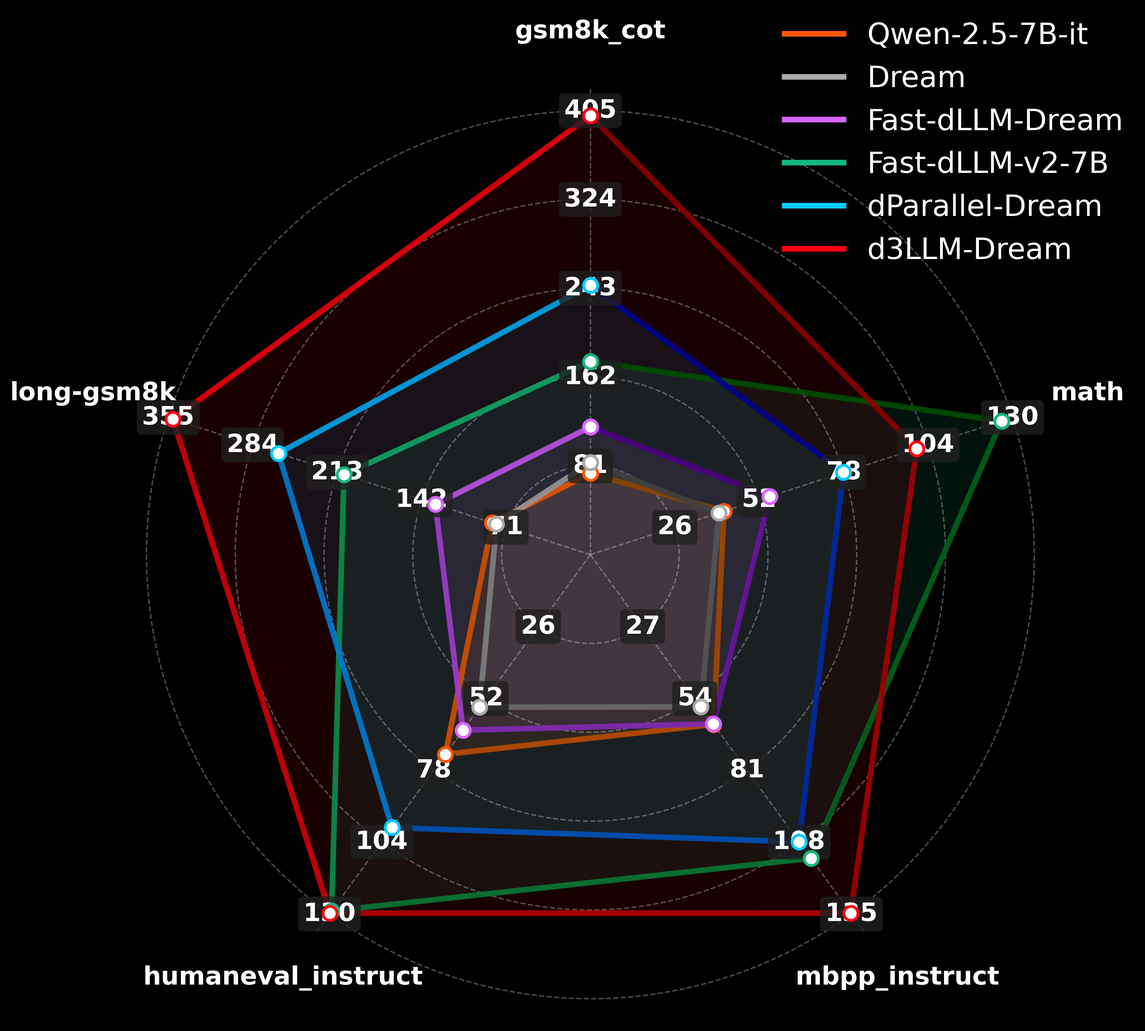
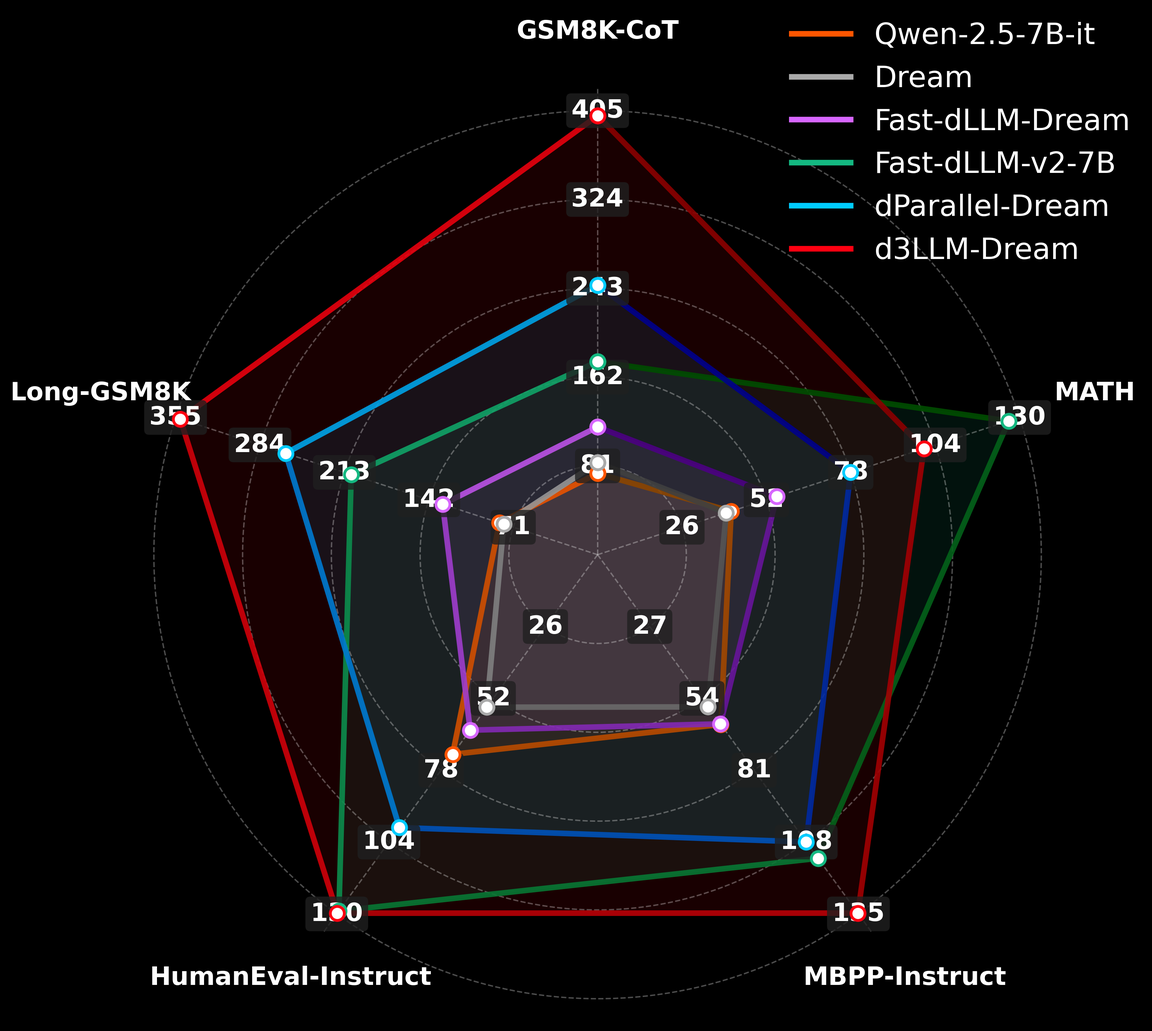
Replace Figures in d3LLM (#43)
* add tags of AR or dLLM

* minor refine

* modify render

* minor update

* Update figs

* remove all imgs

* add new figs

diff --git a/layouts/shortcodes/dllm_leaderboard_previous.html b/layouts/shortcodes/dllm_leaderboard_previous.html
@@ -58,10 +58,6 @@
         background-color: #2a2a2a;
     }
     
-    /* Bold divider line after top 2 methods */
-    .leaderboard-table tbody tr.divider-row {
-        border-bottom: 3px solid #4dcdc4;
-    }
     
     .leaderboard-table td {
         padding: 16px 12px;
@@ -70,18 +66,6 @@
         color: #e0e0e0;
     }
     
-    .leaderboard-table .type-cell {
-        font-weight: 700;
-        font-size: 16px;
-        color: #ffffff;
-        background-color: #2a2a2a;
-        width: 80px;
-        min-width: 80px;
-        max-width: 80px;
-        vertical-align: middle;
-        text-align: center;
-        border-right: 1px solid #333;
-    }
     
     .leaderboard-table .rank-cell {
         font-weight: 700;
@@ -102,6 +86,32 @@
     
     .leaderboard-table .model-cell.top-method {
         font-weight: 700 !important;
+    }
+    
+    .leaderboard-table .badge-cell {
+        width: 45px;
+        min-width: 45px;
+        max-width: 45px;
+        text-align: center;
+        padding: 16px 4px;
+    }
+    
+    .model-badge {
+        display: inline-block;
+        font-size: 10px;
+        font-weight: 500;
+        color: white;
+        padding: 2px 5px;
+        border-radius: 8px;
+        line-height: 1.2;
+    }
+    
+    .model-badge.ar {
+        background-color: #B93413;
+    }
+    
+    .model-badge.dllm {
+        background-color: #193D3A;
     }
     
     .leaderboard-table .metric-cell {
@@ -130,7 +140,7 @@
     
     /* Light gray for other methods */
     .sub-metrics.other-method {
-        color: #aaa;
+        color: #bbb;
     }
     
     .avg-cell {
@@ -218,12 +228,6 @@
             font-size: 16px;
         }
         
-        .leaderboard-table .type-cell {
-            width: 60px;
-            min-width: 60px;
-            max-width: 60px;
-            font-size: 13px;
-        }
         
         .leaderboard-table .rank-cell {
             width: 60px;
@@ -231,9 +235,21 @@
             max-width: 60px;
         }
         
+        .leaderboard-table .badge-cell {
+            width: 38px;
+            min-width: 38px;
+            max-width: 38px;
+            padding: 8px 2px;
+        }
+        
         .leaderboard-table .model-cell {
             min-width: 120px;
             max-width: 140px;
+        }
+        
+        .model-badge {
+            font-size: 7px;
+            padding: 1px 4px;
         }
         
         .leaderboard-table .metric-cell {
@@ -256,8 +272,8 @@
         <table class="leaderboard-table" id="leaderboard-previous">
         <thead>
             <tr>
+                <th>Rank</th>
                 <th>Type</th>
-                <th>Index</th>
                 <th>Model</th>
                 <th>GSM8K-CoT</th>
                 <th>MATH</th>
@@ -279,15 +295,27 @@
         let allData = {};
         
         // Custom order for models - MODIFY THIS ARRAY TO CHANGE THE ORDER
+        const AR_or_dLLM = [
+            'AR', 
+            'dLLM',
+            'dLLM',
+            'dLLM',
+            'dLLM',
+            'dLLM',
+            'dLLM',
+            'AR',
+            'dLLM',
+            'dLLM',
+        ];
         const customOrder = [
             'EAGLE-3 (LLaMA-3.1)',
-            'Qwen-2.5-7B-it',
             'dParallel-LLaDA',
             'dParallel-Dream',
             'Fast-dLLM-v2-7B',
             'Fast-dLLM-LLaDA',
             'D2F',
             'Fast-dLLM-Dream',
+            'Qwen-2.5-7B-it',
             'Dream',
             'LLaDA',
         ];
@@ -485,29 +513,18 @@
             
             data.forEach((model, index) => {
                 const rank = index + 1;
-                const isTopMethod = rank <= 2;
+                const isTopMethod = rank <= 1;
                 const row = document.createElement('tr');
-                
-                // Add divider class after the second row
-                if (rank === 2) {
-                    row.classList.add('divider-row');
-                }
-                
-                // Add Type cell with rowspan for first row of each type
-                let typeCellHTML = '';
-                if (rank === 1) {
-                    // First AR row - spans 2 rows
-                    typeCellHTML = `<td class="type-cell" rowspan="2">AR</td>`;
-                } else if (rank === 3) {
-                    // First dLLM row - spans remaining rows (8 rows for dLLM)
-                    typeCellHTML = `<td class="type-cell" rowspan="8">dLLM</td>`;
-                }
                 
                 const modelCellClass = isTopMethod ? 'model-cell top-method' : 'model-cell';
                 
+                // Get the type (AR or dLLM) for this model
+                const modelType = AR_or_dLLM[index] || 'dLLM';
+                const badgeClass = modelType === 'AR' ? 'ar' : 'dllm';
+                
                 row.innerHTML = `
-                    ${typeCellHTML}
                     <td class="rank-cell">${getRankDisplay(rank)}</td>
+                    <td class="badge-cell"><span class="model-badge ${badgeClass}">${modelType}</span></td>
                     <td class="${modelCellClass}">${model.name}</td>
                     <td class="metric-cell">${formatMetricCell(model.metrics.gsm8k_cot, isTopMethod)}</td>
                     <td class="metric-cell">${formatMetricCell(model.metrics.math, isTopMethod)}</td>

diff --git a/content/blogs/text-diffusion/index.md b/content/blogs/text-diffusion/index.md
@@ -23,11 +23,12 @@ draft = false
 
 {{< justify >}}
 
-**TL;DR:** Diffusion large language models (dLLMs) promise things that autoregressive LLMs cannot:  parallel decoding, error correction, and random-order generation. Over the past year, a wave of papers has pushed this vision, and closed-source systems like Gemini Diffusion and Mercury report impressive throughput numbers. In this blog, we take a step back and ask a simple question: if we look at both speed and accuracy together, are diffusion LLMs actually better decoders than strong autoregressive (AR) models?
+**TL;DR:** Diffusion large language models (dLLMs) promise things that autoregressive LLMs cannot:  parallel decoding, error correction, and random-order generation. Over the past year, a wave of papers has pushed this vision, and closed-source systems like [Gemini Diffusion](https://deepmind.google/models/gemini-diffusion/) and [Mercury](https://arxiv.org/abs/2506.17298) report impressive throughput numbers. In this blog, we take a step back and ask a simple question: if we look at both speed and accuracy together, are diffusion LLMs actually better decoders than strong autoregressive (AR) models?
 
 
 <div style="margin-top: -12px;"></div>
-In our study of open-source systems, we find a consistent accuracy–parallelism trade-off: pushing more tokens per forward pass almost always costs accuracy. We introduce Accuracy Under Parallelism (AUP), a hardware-robust metric that scores this trade-off in one number, and we present d3LLM, a distillation + decoding framework that improves AUP and narrows the gap to strong AR + speculative decoding baselines.
+
+In our study of open-source systems, we find a consistent accuracy–parallelism trade-off: pushing more tokens per forward pass almost always costs accuracy. We introduce Accuracy Under Parallelism (**AUP**), a hardware-robust metric that scores this trade-off in one number, and we present [d3LLM](https://github.com/hao-ai-lab/d3LLM), a distillation + decoding framework that improves AUP and narrows the gap to strong AR + speculative decoding baselines. Our d3LLM achieves up to 5× speedup over the AR baseline (Qwen-2.5-7B-it) on H100 GPU and 3.5× speedup on A100 GPU. Feel free to try 🕹 [our demo](https://d3llm-team.github.io/).
 
 
 
@@ -71,9 +72,9 @@ document.addEventListener('DOMContentLoaded', function() {
 ## Background
 
 Diffusion large language models (dLLMs) have emerged as a promising alternative to autoregressive (AR) LLMs.  Conceptually, they promise things AR models fundamentally struggle with:
-- Parallel decoding: update many tokens per forward pass instead of generating one token at a time.
-- Error correction: revise earlier positions during refinement.
-- Random-order generation: tokens need not be produced strictly left-to-right.
+- **Parallel decoding:** update many tokens per forward pass instead of generating one token at a time.
+- **Error correction:** revise earlier positions during refinement.
+- **Random-order generation:** tokens need not be produced strictly left-to-right.
 
 In the best-case story, dLLMs could be "the future of LLM inference": faster decoding without giving up quality, plus extra capabilities that AR decoding doesn’t naturally offer.
 Recently, several diffusion large language models have been announced, including [Mercury](https://arxiv.org/abs/2506.17298), [Gemini Diffusion](https://deepmind.google/models/gemini-diffusion/), and [Seed Diffusion](https://arxiv.org/abs/2508.02193), which demonstrate impressive efficiency and performance and achieve extremely high throughput - sometimes reported at 1000+ tokens per second in certain settings.
@@ -82,7 +83,7 @@ But the open-source reality today is much more mixed. Many open diffusion models
 
 This raises a simple question that we think has been under-emphasized: If we evaluate both speed and accuracy together, are today’s diffusion LLMs actually better decoders than strong AR models (especially AR + speculative decoding)? In this blog post, we attempt to study that question with evidence, and then use what we learned to: (1) propose a better metric, and (2) build a better diffusion system guided by that metric.
 
-### Key finding: a fundamental accuracy-parallelism trade-off in dLLMs
+### Key Finding: a Fundamental Accuracy-Parallelism Trade-off in dLLMs
 
 To answer this question, we conduct a comprehensive evaluation of SOTA dLLM methods (including [Fast-dLLM](https://arxiv.org/abs/2505.22618), [D2F](https://arxiv.org/abs/2508.09192), [dParallel](https://arxiv.org/abs/2509.26488), and [Fast-dLLM-v2](https://arxiv.org/abs/2509.26328)) on several widely used benchmarks in dLLM literature:
 - Math / reasoning: [GSM8K-CoT (zero-shot CoT)](https://github.com/EleutherAI/lm-evaluation-harness/blob/main/lm_eval/tasks/gsm8k/gsm8k-cot-zeroshot.yaml), [MATH](https://openreview.net/forum?id=IFXTZERXdM7)
@@ -91,9 +92,9 @@ To answer this question, we conduct a comprehensive evaluation of SOTA dLLM meth
 
 We measure two quantities for each model and decoding configuration:
 - Accuracy (solve rate / pass@1 depending on the benchmark)
-- Parallelism, measured by tokens per forward pass (TPF)
+- Parallelism, measured by tokens per forward pass (**TPF**)
 
-Why TPF? Because it captures the algorithmic “how many tokens do I advance per model evaluation” effect that diffusion-style decoding and speculative methods aim to improve. Besides, we also report the average AUP score (We'll come back to this in [Section AUP](#aup-considering-both-performance-and-parallelism)) and sorted previous dLLMs based on AUP. 
+Why TPF? Because it captures the algorithmic “how many tokens do I advance per model evaluation” effect that diffusion-style decoding and speculative methods aim to improve (We'll come back to this in [Section AUP](#aup-considering-both-accuracy-and-parallelism)). 
 The results are summarized in the table below.
 
 {{< /justify >}}
@@ -125,7 +126,7 @@ Now here’s the part that surprised us the most when we looked at the data “w
 - AR + speculative decoding remains a very strong baseline when you measure the full trade-off (although the drafting overhead is non-negligible and may increase system complexity).
 
 
-### Why do we need a new metric?
+### Why Do We Need a New Metric?
 
 At this point, we ran into a practical problem: the literature (and many blog discussions) tends to report diffusion progress using single, isolated metrics:
 - Efficiency-only metrics: tokens per second (TPS) or tokens per forward (TPF)
@@ -133,18 +134,18 @@ At this point, we ran into a practical problem: the literature (and many blog di
 
 Unlike AR, dLLM ***by nature lives on an accuracy–parallelism curve***, hence single metrics become misleading, as it overlooks the fundamental trade-off between efficiency and performance to answer the real question: How well does a method maintain accuracy as we push parallelism higher?
 
-These insights motivate us to ***design a new unified metric*** – AUP, which we describe next.
+These insights motivate us to ***design a new unified metric*** – **AUP**, which we describe next.
 
 
 {{< /justify >}}
 
 
-## AUP: Considering Both Performance and Parallelism
+## AUP: Considering Both Accuracy and Parallelism
 
 {{< justify >}}
 
 
-Most dLLM methods already expose certain knobs that trade off speed and quality. e.g., Fast-dLLM employs a logit “threshold”,where tokens with logits above this threshold can be decoded in parallel. By sweeping this threshold, we can adjust the quality–speed trade-off and obtain multiple parallelism–accuracy pairs, which can then be used to plot a curve of accuracy versus parallelism. We refer to this curve as the ***accuracy–parallelism curve*** (see the white curve in Figure 1 for an illustration), which characterizes the trade-off frontier dLLMs navigate.
+Most dLLM methods already expose certain knobs that trade off speed and quality. e.g., Fast-dLLM employs a logit “threshold”, where tokens with logits above this threshold can be decoded in parallel. By sweeping this threshold, we can adjust the quality–speed trade-off and obtain multiple parallelism–accuracy pairs, which can then be used to plot a curve of accuracy versus parallelism. We refer to this curve as the ***accuracy–parallelism curve*** (see the white curve in Figure 1 for an illustration), which characterizes the trade-off frontier dLLMs navigate.
 
 A natural first attempt is to summarize the curve by the area under the curve (AUC). But plain AUC has a serious failure mode: it can reward models that become extremely fast by letting accuracy collapse. The right side of the curve can contribute lots of area even if the model is not useful in practice. We want a metric that strongly prefers staying in a high-accuracy regime, and only then rewards higher parallelism.
 
@@ -180,14 +181,14 @@ The intuition behind AUP is simple:
 **Choice of $\alpha$.** The hyperparameter $\alpha$ controls the penalty for accuracy degradation. A larger $\alpha$ increases sensitivity to performance drops, causing the contribution of throughput to decay exponentially with the error rate. In the ideal case, where a method improves parallelism without compromising accuracy, the AUP reduces to the standard area under the parallelism-accuracy curve (AUC). In our setting, we set $\alpha = 3$ as it balances the importance of parallelism and accuracy.
 
 **AUP is hardware-independent** because AUP is built on TPF (token per forward), not TPS (token per second). TPS is heavily affected by hardware generation (H100 vs A100), kernel fusion, cache implementation, and the inference framework. The same algorithm can look dramatically different depending on system details.
-For instance, in our experiments, our d3LLM-LLaDA model (which will be introduced in the next section) demonstrates around 5× higher TPS than an AR baseline (Qwen-2.5-7B-it) on an NVIDIA H100 GPU (289 vs. 57 tokens/s). However, this advantage shrinks significantly on an NVIDIA A100 GPU (175 vs. 50 tokens/s). In contrast, the TPF captures the algorithmic parallelism: how many tokens you progress per forward pass. This is much more stable across hardware. Therefore, AUP gives a fairer view of algorithmic progress, without requiring everyone to run on the exact same GPU or inference engine, helping the community focus on algorithmic design without requiring access to particular GPUs.
+For instance, in our experiments, our [d3LLM-LLaDA model](https://huggingface.co/d3LLM/d3LLM_LLaDA) (which will be introduced in the next section) demonstrates around 5× higher TPS than an AR baseline (Qwen-2.5-7B-it) on an NVIDIA H100 GPU (289 vs. 57 tokens/s). However, this advantage shrinks significantly on an NVIDIA A100 GPU (175 vs. 50 tokens/s). In contrast, the TPF captures the algorithmic parallelism: how many tokens you progress per forward pass. This is much more stable across hardware. Therefore, AUP gives a fairer view of algorithmic progress, without requiring everyone to run on the exact same GPU or inference engine, helping the community focus on algorithmic design without requiring access to particular GPUs.
 
 {{< /justify >}}
 
 
 {{< justify >}}
 
-### What AUP reveals about Today’s landscape
+### What AUP Reveals about Today’s Landscape
 
 Once we scored existing methods using AUP, the landscape became clearer (see Table 1): Recent diffusion acceleration methods do improve AUP over vanilla diffusion baselines (e.g., vanilla Dream / LLaDA). This is real progress. However, state-of-the-art AR + speculative decoding methods still achieve the top overall AUP in our evaluation. We need methods that move the entire accuracy–parallelism curve up and to the right, not just push parallelism at the expense of accuracy. This is where d3LLM comes in: we treat AUP as the optimization target, and design a diffusion framework specifically to increase AUP.
 
@@ -204,7 +205,7 @@ Once we scored existing methods using AUP, the landscape became clearer (see Tab
 
 {{< justify >}}
 
-Following the guidance of the AUP score, we introduce ***d3LLM*** (*pseuDo-Distillated-Diffusion Large Language Model*), a novel framework for constructing dLLMs with both high accuracy and high parallelism. d3LLM combines two main ideas:
+Following the guidance of the AUP score, we introduce ***[d3LLM](https://github.com/hao-ai-lab/d3LLM)*** [(*pseuDo-Distillated-Diffusion Large Language Model*)](https://github.com/hao-ai-lab/d3LLM), a novel framework for constructing dLLMs with both high accuracy and high parallelism. d3LLM combines two main ideas:
 1.	*Pseudo-trajectory distillation (training)*: Instead of distilling only from a teacher’s final answers, we distill from the teacher diffusion model’s decoding order (the order in which it unmasks tokens). This provides intermediate supervision about which tokens can be safely decoded earlier, which directly improves parallelism. we design a ***curriculum learning strategy*** that gradually increases the masking ratio from easier scenarios (few masks) to more difficult ones (many masks) during training, resulting in a more robust distillation process.
 2.	*Multi-block decoding with KV-cache refresh (inference)*: At inference time, we decode multiple blocks in parallel based on confidence (entropy), and we introduce a ***KV-cache refresh mechanism*** to prevent quality degradation that can occur with aggressive multi-block parallelism.
 
@@ -319,7 +320,7 @@ In addition to the distillation recipe, we also introduce an efficient decoding 
 
 We present comprehensive benchmark results across five representative tasks: GSM8K-CoT (chain-of-thought reasoning), MATH (mathematical problem solving), HumanEval (code generation), MBPP (Python programming), and a long-context math reasoning task (5-shot GSM8K reasoning, with a prompt length ≈ 1000). These datasets span diverse domains and problem types and are widely used in the research community. In addition, their relatively long output lengths allow us to effectively evaluate the models' parallel decoding capabilities together with their accuracy.
 
-Our experiments are conducted on three foundational diffusion models: [LLaDA](https://arxiv.org/abs/2502.09992), [Dream](https://arxiv.org/abs/2508.15487), and [Dream-Coder](https://arxiv.org/abs/2509.01142). From these, we derive three distilled models, d3LLM-LLaDA, d3LLM-Dream, and d3LLM-Coder, each trained using the same trajectory-based distillation recipe and multi-block decoding strategy outlined previously. We use a single GPU and fix the batch size to 1 for all models.
+Our experiments are conducted on three foundational diffusion models: [LLaDA](https://arxiv.org/abs/2502.09992), [Dream](https://arxiv.org/abs/2508.15487), and [Dream-Coder](https://arxiv.org/abs/2509.01142). From these, we derive three distilled models, [d3LLM-LLaDA](https://huggingface.co/d3LLM/d3LLM_LLaDA), [d3LLM-Dream](https://huggingface.co/d3LLM/d3LLM_Dream), and [d3LLM-Coder](https://huggingface.co/d3LLM/d3LLM_Dream_Coder), each trained using the same trajectory-based distillation recipe and multi-block decoding strategy outlined previously. We use a single GPU and fix the batch size to 1 for all models.
 
 **Implementation Details.** Our d3LLM begins with a block diffusion model (either LLaDA or Dream) with a block size of 32 as the teacher model. For fair comparison, we adopt the same distillation dataset as dParallel, which includes approximately 122k samples for Dream and 92k samples for LLaDA, sourced from the PRM12K, AceCode, GSM8K (training split), and Numina-Math datasets. The learning rate is set to 2e-5. We train 6 epochs for LLaDA and 3 for Dream. More implementation details can be found in our [GitHub code](https://github.com/hao-ai-lab/d3LLM).
 
@@ -333,13 +334,13 @@ For the **LLaDA-based models**, we compare our *d3LLM-LLaDA* with _vanilla LLaDA
 
 <figure>
 <div class="responsive-img-grid">
-  <img src="img/data_llada_aup_curve_gsm8k_cot.png" alt="LLaDA GSM8K-CoT" data-width="30.2">
-  <img src="img/data_llada_aup_curve_humaneval.png" alt="LLaDA HumanEval" data-width="33">
-  <img src="img/data_llada_aup_curve_mbpp.png" alt="LLaDA MBPP" data-width="31.2">
+  <img src="img/data_llada_aup_curve_GSM8K-CoT.png" alt="LLaDA GSM8K-CoT" data-width="31">
+  <img src="img/data_llada_aup_curve_HumanEval.png" alt="LLaDA HumanEval" data-width="31.7">
+  <img src="img/data_llada_aup_curve_MBPP.png" alt="LLaDA MBPP" data-width="29.8">
 </div>
 <div class="responsive-img-grid" style="margin-top: 20px;">
-  <img src="img/data_llada_aup_curve_math.png" alt="LLaDA MATH" data-width="30">
-  <img src="img/data_llada_aup_curve_long-gsm8k.png" alt="LLaDA Long-GSM8K" data-width="30.2">
+  <img src="img/data_llada_aup_curve_MATH.png" alt="LLaDA MATH" data-width="30.2">
+  <img src="img/data_llada_aup_curve_Long-GSM8K.png" alt="LLaDA Long-GSM8K" data-width="30.2">
 </div>
 <figcaption style="text-align: center; color: #808080; margin-top: 10px;">Figure 5: AUP curves for LLaDA-based models across five benchmark tasks (GSM8K-CoT, HumanEval, MBPP, MATH, and Long-GSM8K).</figcaption>
 </figure>
@@ -347,7 +348,7 @@ For the **LLaDA-based models**, we compare our *d3LLM-LLaDA* with _vanilla LLaDA
 <figure>
 <div class="responsive-img-grid">
   <img src="img/data_llada_aup_histogram.png" alt="LLaDA AUP Histogram" data-width="51">
-  <img src="img/data_llada_aup_radar.png" alt="LLaDA AUP Radar" data-width="40.5">
+  <img src="img/data_llada_aup_radar.png" alt="LLaDA AUP Radar" data-width="40.6">
 </div>
 <figcaption style="text-align: center; color: #808080; margin-top: 10px;">Figure 6: AUP scores and radar chart comparing different LLaDA-based methods.</figcaption>
 </figure>
@@ -360,13 +361,13 @@ For the **Dream-based models**, we compare our *d3LLM-Dream* with _vanilla Dream
 
 <figure>
 <div class="responsive-img-grid">
-  <img src="img/data_dream_aup_curve_gsm8k_cot.png" alt="Dream GSM8K-CoT" data-width="29.8">
-  <img src="img/data_dream_aup_curve_humaneval_instruct.png" alt="Dream HumanEval_Instruct" data-width="30.5">
-  <img src="img/data_dream_aup_curve_mbpp_instruct.png" alt="Dream MBPP_Instruct" data-width="30.2">
+  <img src="img/data_dream_aup_curve_GSM8K-CoT.png" alt="Dream GSM8K-CoT" data-width="32.8">
+  <img src="img/data_dream_aup_curve_HumanEval-Instruct.png" alt="Dream HumanEval_Instruct" data-width="30.5">
+  <img src="img/data_dream_aup_curve_MBPP-Instruct.png" alt="Dream MBPP_Instruct" data-width="30.2">
 </div>
 <div class="responsive-img-grid" style="margin-top: 20px;">
-  <img src="img/data_dream_aup_curve_math.png" alt="Dream MATH" data-width="31.2">
-  <img src="img/data_dream_aup_curve_long-gsm8k.png" alt="Dream Long-GSM8K" data-width="30.2">
+  <img src="img/data_dream_aup_curve_MATH.png" alt="Dream MATH" data-width="29.4">
+  <img src="img/data_dream_aup_curve_Long-GSM8K.png" alt="Dream Long-GSM8K" data-width="31.2">
 </div>
 <figcaption style="text-align: center; color: #808080; margin-top: 10px;">Figure 7: AUP curves for Dream-based models across five benchmark tasks (GSM8K-CoT, HumanEval_Instruct, MBPP_Instruct, MATH, and Long-GSM8K).</figcaption>
 </figure>
@@ -383,7 +384,7 @@ For the **Dream-based models**, we compare our *d3LLM-Dream* with _vanilla Dream
 
 
 **Results on Different Models and Datasets.** As shown by the results above, the proposed distillation recipe and multi-block decoding strategy are robust and improve efficiency across various domains. Specifically, our d3LLM achieves the highest AUP score on 9 out of 10 tasks, and accelerates the vanilla LLaDA by approximately 5–10× on TPF across different tasks. 
-Remarkably, we note that for Fast-dLLM-v2, the accuracy scores on Math and HumanEval are notably higher than those of other diffusion models derived from Dreams. We suspect that this stems from the fact that Fast-dLLM-v2 is finetuned directly from Qwen-2.5-7B with an additional 1B tokens (i.e., the LLaMA–Nemotron post-training dataset). In contrast, our d3LLM-Dream is distilled based on the vanilla Dream and uses only 60M additional tokens.
+Remarkably, we note that for Fast-dLLM-v2, the accuracy scores on Math and HumanEval are notably higher than those of other diffusion models derived from Dreams. We suspect that this stems from the fact that Fast-dLLM-v2 is finetuned directly from Qwen-2.5-7B with an additional 1B tokens (i.e., the LLaMA–Nemotron post-training dataset). In contrast, our [d3LLM-Dream](https://huggingface.co/d3LLM/d3LLM_Dream) is distilled based on the vanilla Dream and uses only 60M additional tokens.
 
 
 
@@ -394,24 +395,24 @@ The experimental results also validate the reliability of our AUP metric. For ex
 
 {{< justify >}}
 
-**Efficient Diffusion Coder.** Beyond LLaDA and Dream, we further apply our distillation approach and multi-block decoding method to a more realistic and challenging application: efficient coding models. Specifically, we use _Dream-Coder-7B-Instruct_ as the teacher dLLM and collect 120k samples from the Ling-Coder-SFT and AceCode datasets, along with a small amount of math-reasoning data, to distill our d3LLM-Coder. The results are demonstrated as below.
+**Efficient Diffusion Coder.** Beyond LLaDA and Dream, we further apply our distillation approach and multi-block decoding method to a more realistic and challenging application: efficient coding models. Specifically, we use _Dream-Coder-7B-Instruct_ as the teacher dLLM and collect 120k samples from the Ling-Coder-SFT and AceCode datasets, along with a small amount of math-reasoning data, to distill our [d3LLM-Coder](https://huggingface.co/d3LLM/d3LLM_Dream_Coder). The results are demonstrated as below.
 
 
 {{< /justify >}}
 
 <figure>
 <div class="responsive-img-grid">
-  <img src="img/data_dream_coder_aup_curve_humaneval.png" alt="Dream-Coder HumanEval" data-width="22.4">
-  <img src="img/data_dream_coder_aup_curve_humaneval+.png" alt="Dream-Coder HumanEval+" data-width="22.4">
-  <img src="img/data_dream_coder_aup_curve_mbpp.png" alt="Dream-Coder MBPP" data-width="25.4">
-  <img src="img/data_dream_coder_aup_curve_mbpp+.png" alt="Dream-Coder MBPP+" data-width="22.7">
+  <img src="img/data_dream_coder_aup_curve_HumanEval.png" alt="Dream-Coder HumanEval" data-width="22.8">
+  <img src="img/data_dream_coder_aup_curve_HumanEval+.png" alt="Dream-Coder HumanEval+" data-width="22.8">
+  <img src="img/data_dream_coder_aup_curve_MBPP.png" alt="Dream-Coder MBPP" data-width="23.4">
+  <img src="img/data_dream_coder_aup_curve_MBPP+.png" alt="Dream-Coder MBPP+" data-width="22.9">
 </div>
 <figcaption style="text-align: center; color: #808080; margin-top: 10px;">Figure 9: Evaluation for Coders across four coding benchmarks (HumanEval, HumanEval+, MBPP, MBPP+).</figcaption>
 </figure>
 
 <figure>
 <div class="responsive-img-grid">
-  <img src="img/data_dream_coder_aup_histogram.png" alt="Dream-Coder AUP Histogram" data-width="53">
+  <img src="img/data_dream_coder_aup_histogram.png" alt="Dream-Coder AUP Histogram" data-width="55.4">
   <img src="img/data_dream_coder_aup_radar.png" alt="Dream-Coder AUP Radar" data-width="40.6">
 </div>
 <figcaption style="text-align: center; color: #808080; margin-top: 10px;">Figure 10: AUP scores and radar chart comparing different Coder-based methods.</figcaption>
